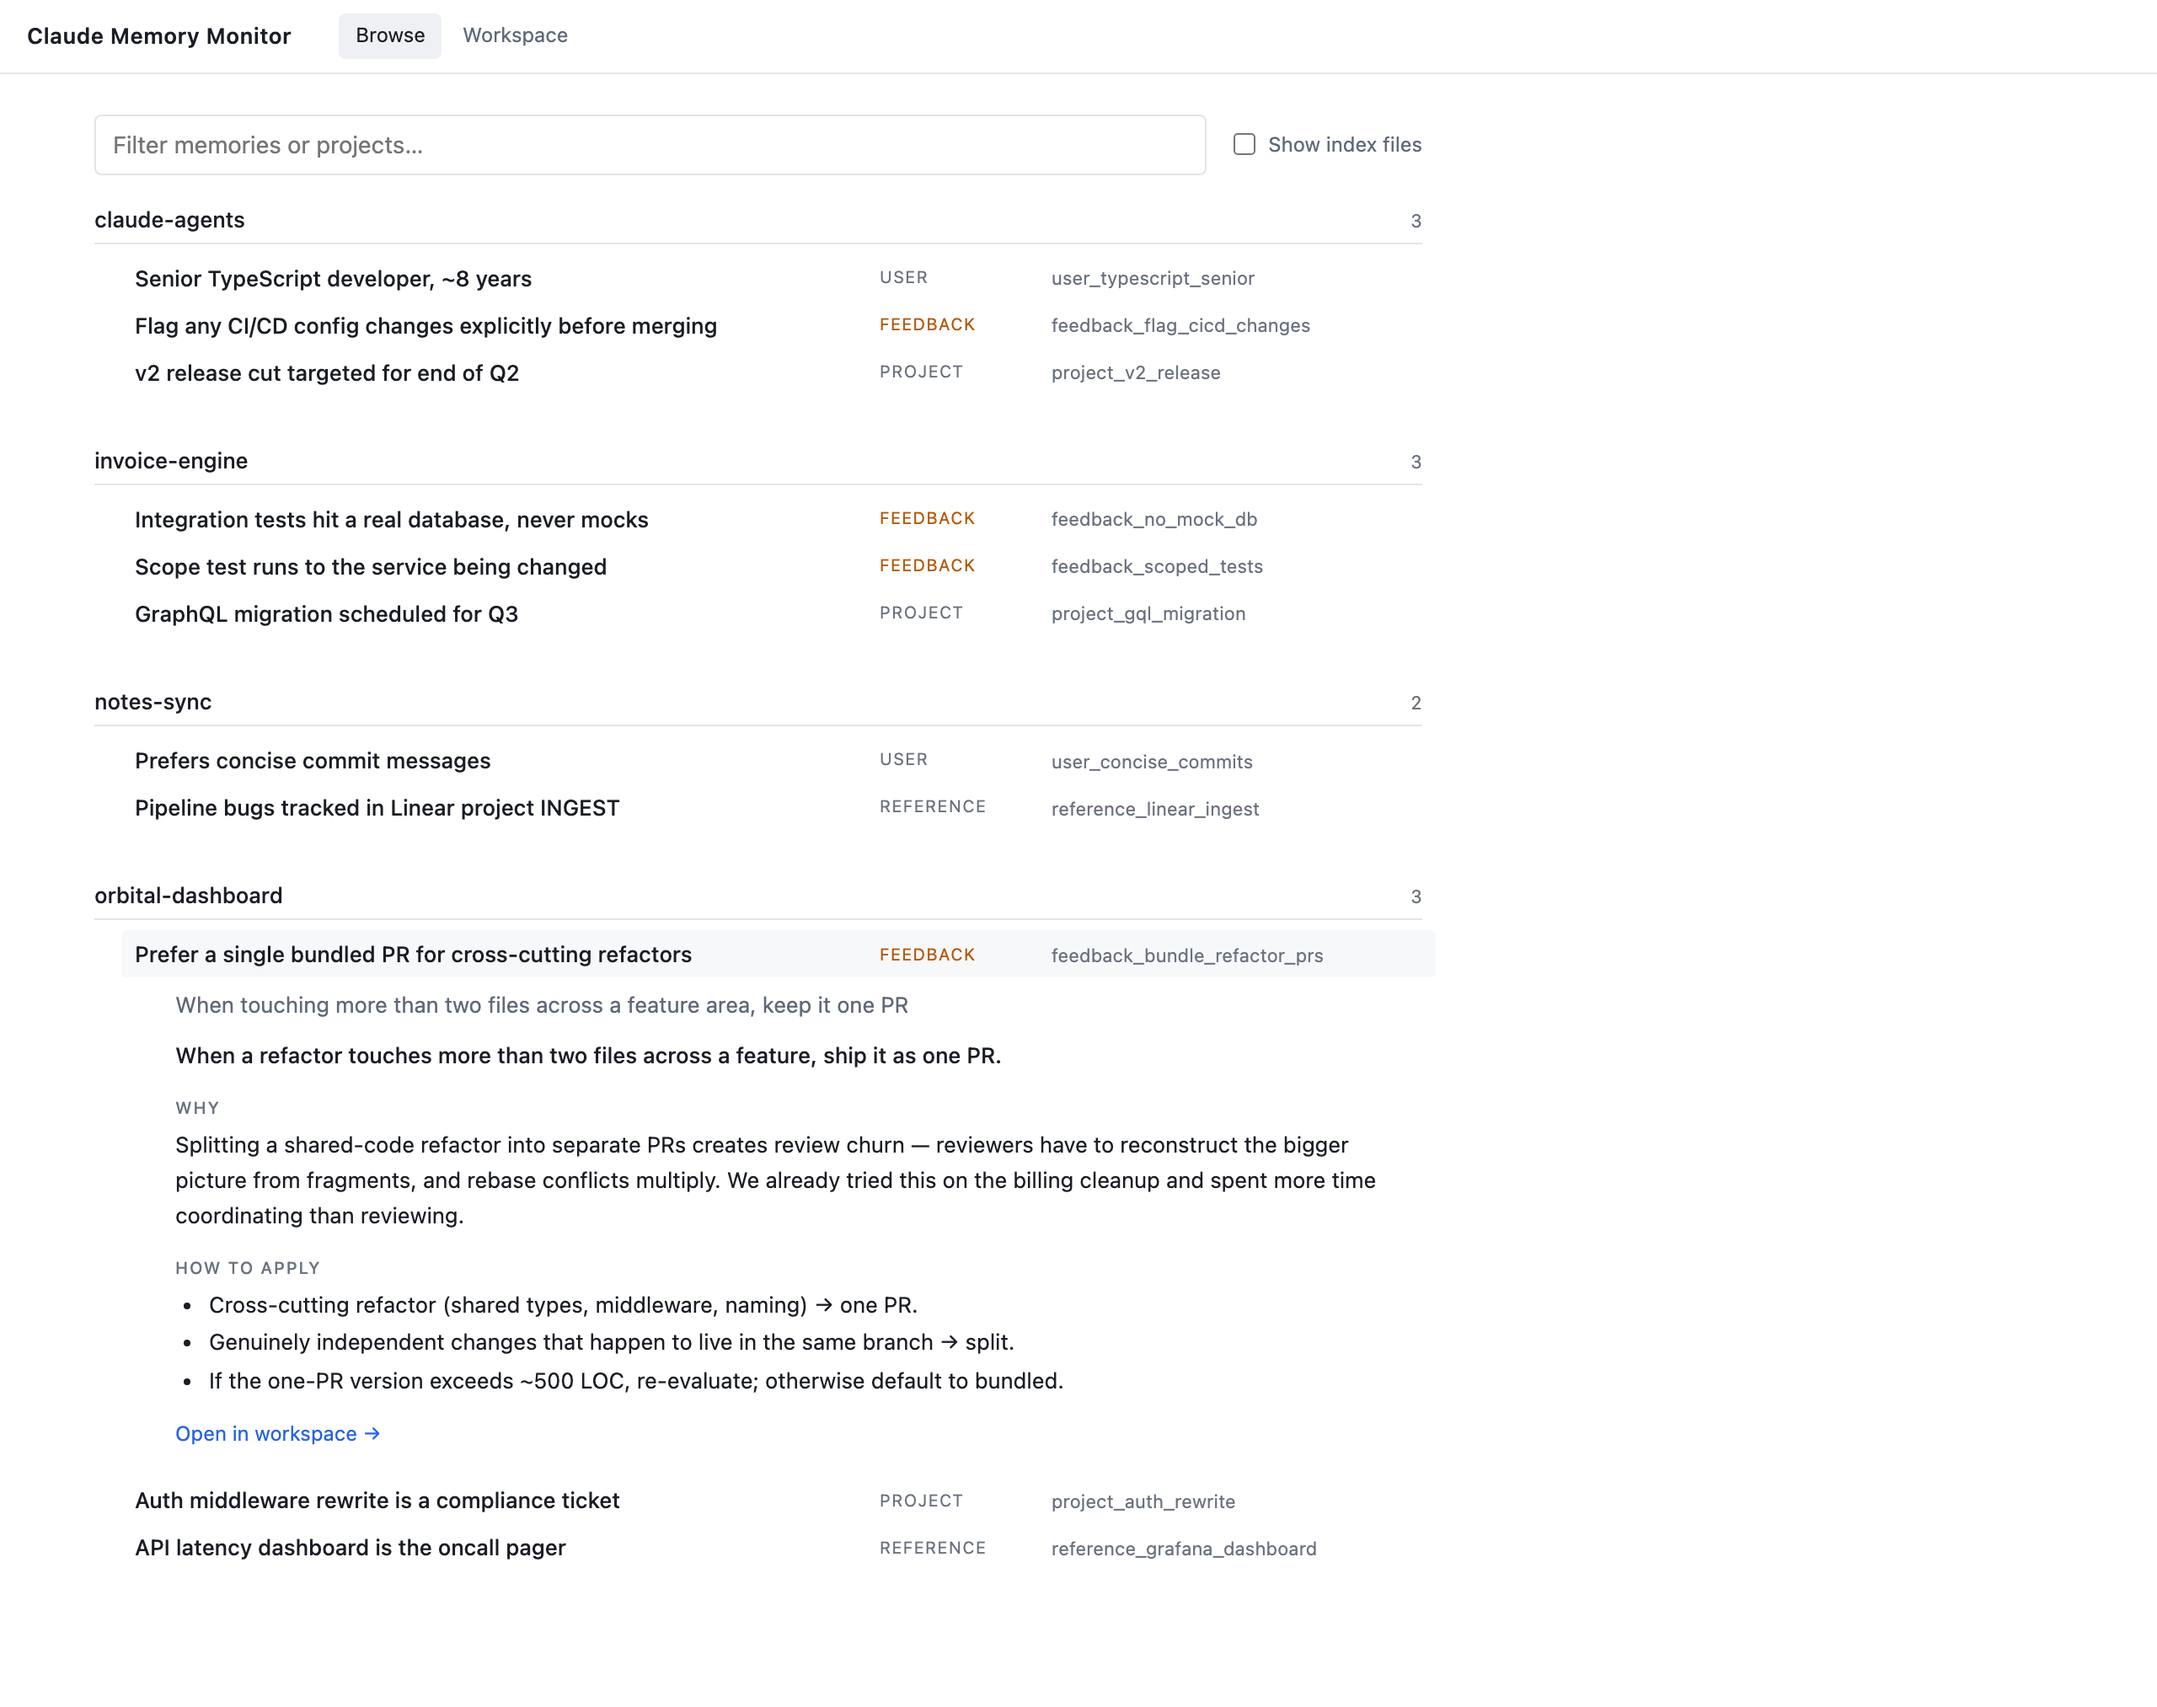
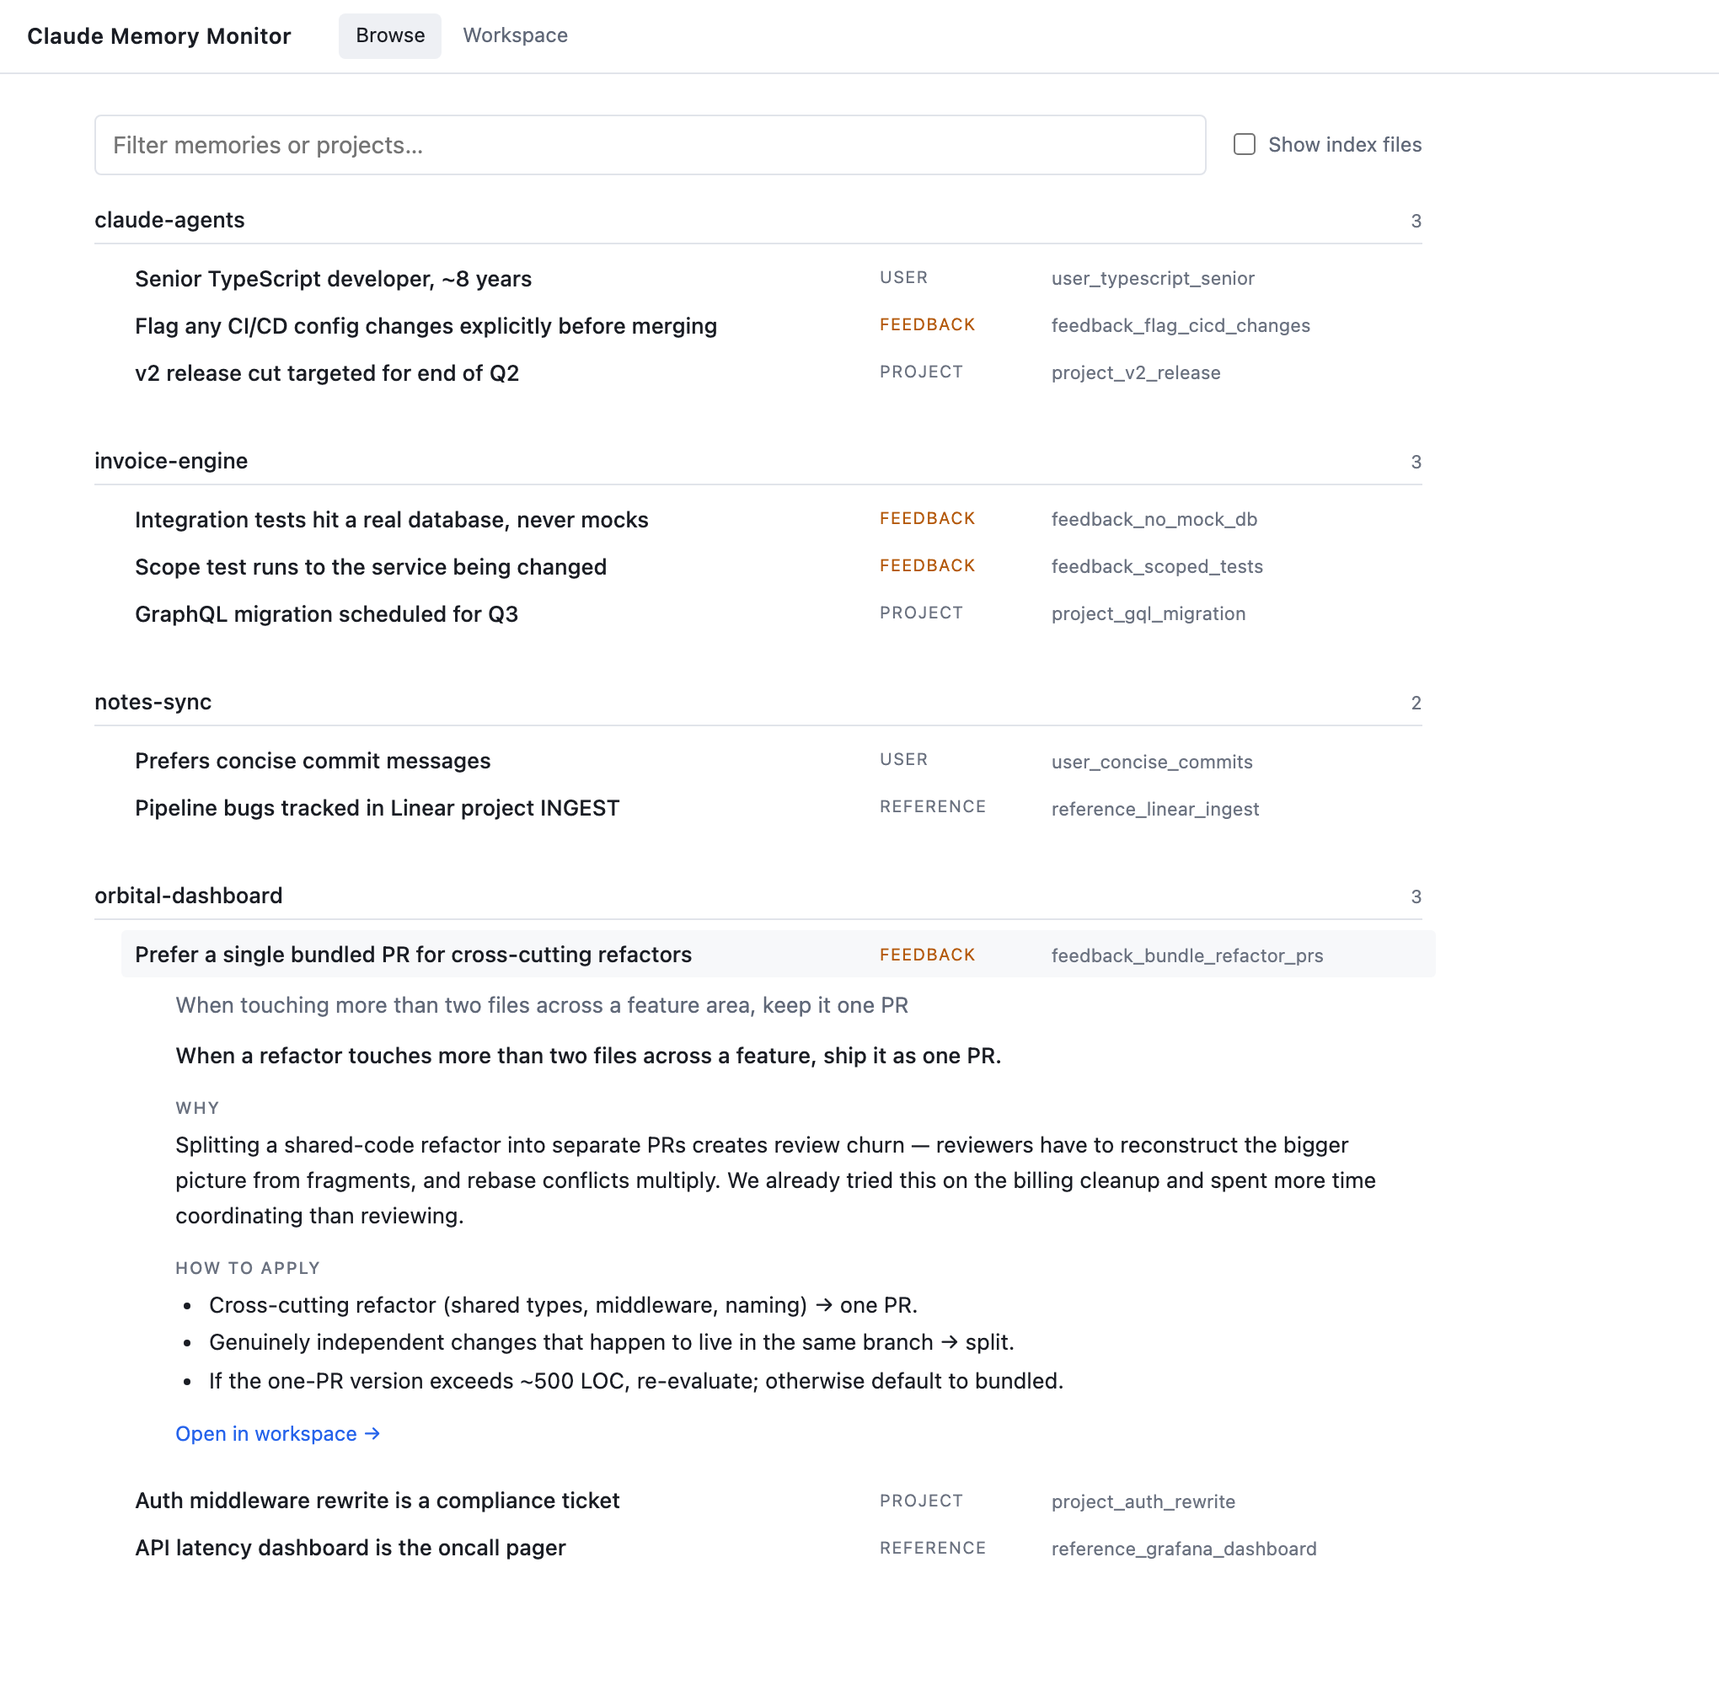
Tighten README screenshot viewports
Browse was shot at 1280w against a 1012w content column, Workspace at
1280w against a 1076w shell — both had a fat right-hand gutter that
ate image real estate when rendered at 49% width in the README.

Shoot each view at a viewport that matches the content:
- Browse:    1020w (56 padding + 900 max + 56 padding + 8 play)
- Workspace: 1080w (340 sidebar + 28 pad + 680 max + 28 pad + 4 play)

Also use separate BrowserContexts per shot so viewport sizes can differ.

diff --git a/scripts/screenshots.js b/scripts/screenshots.js
@@ -279,42 +279,48 @@ async function startServer() {
   let failed = false;
 
   try {
-    const context = await browser.newContext({
-      viewport: { width: 1280, height: 840 },
+    // ---------- Browse ---------------------------------------------------
+    // Content column is 1012px wide (56 padding + 900 max + 56 padding).
+    // Viewport of 1020 trims the right-hand whitespace tight to the content.
+    const browseContext = await browser.newContext({
+      viewport: { width: 1020, height: 800 },
       deviceScaleFactor: 2,
     });
-    const page = await context.newPage();
+    const browse = await browseContext.newPage();
+    await browse.goto(`http://localhost:${PORT}/`);
+    await browse.locator('.row').first().waitFor({ timeout: 8000 });
 
-    // ---------- Browse ---------------------------------------------------
-    await page.goto(`http://localhost:${PORT}/`);
-    await page.locator('.row').first().waitFor({ timeout: 8000 });
-
-    // Open the most visually interesting feedback drawer.
-    const showcase = page.locator('.row', { hasText: 'Prefer a single bundled PR' });
+    const showcase = browse.locator('.row', { hasText: 'Prefer a single bundled PR' });
     await showcase.click();
-    await page.locator('.drawer.open').first().waitFor();
-    // Give the CSS transition a moment to settle.
-    await page.waitForTimeout(400);
+    await browse.locator('.drawer.open').first().waitFor();
+    await browse.waitForTimeout(400);
 
-    await page.screenshot({
+    await browse.screenshot({
       path: path.join(OUT_DIR, 'browse.png'),
       fullPage: true,
     });
+    await browseContext.close();
     console.log('wrote browse.png');
 
     // ---------- Workspace ------------------------------------------------
-    await page.goto(`http://localhost:${PORT}/dashboard`);
-    await page.locator('.item').first().waitFor({ timeout: 8000 });
+    // Sidebar 340 + detail (28 pad + 680 max + 28 pad) = 1076. Viewport 1080.
+    const wsContext = await browser.newContext({
+      viewport: { width: 1080, height: 740 },
+      deviceScaleFactor: 2,
+    });
+    const ws = await wsContext.newPage();
+    await ws.goto(`http://localhost:${PORT}/dashboard`);
+    await ws.locator('.item').first().waitFor({ timeout: 8000 });
 
-    // Select a feedback memory so the detail pane shows callouts.
-    await page.locator('.item', { hasText: 'Integration tests hit a real database' }).click();
-    await page.locator('.d-title').waitFor();
-    await page.waitForTimeout(200);
+    await ws.locator('.item', { hasText: 'Integration tests hit a real database' }).click();
+    await ws.locator('.d-title').waitFor();
+    await ws.waitForTimeout(200);
 
-    await page.screenshot({
+    await ws.screenshot({
       path: path.join(OUT_DIR, 'workspace.png'),
       fullPage: false,
     });
+    await wsContext.close();
     console.log('wrote workspace.png');
   } catch (e) {
     failed = true;
